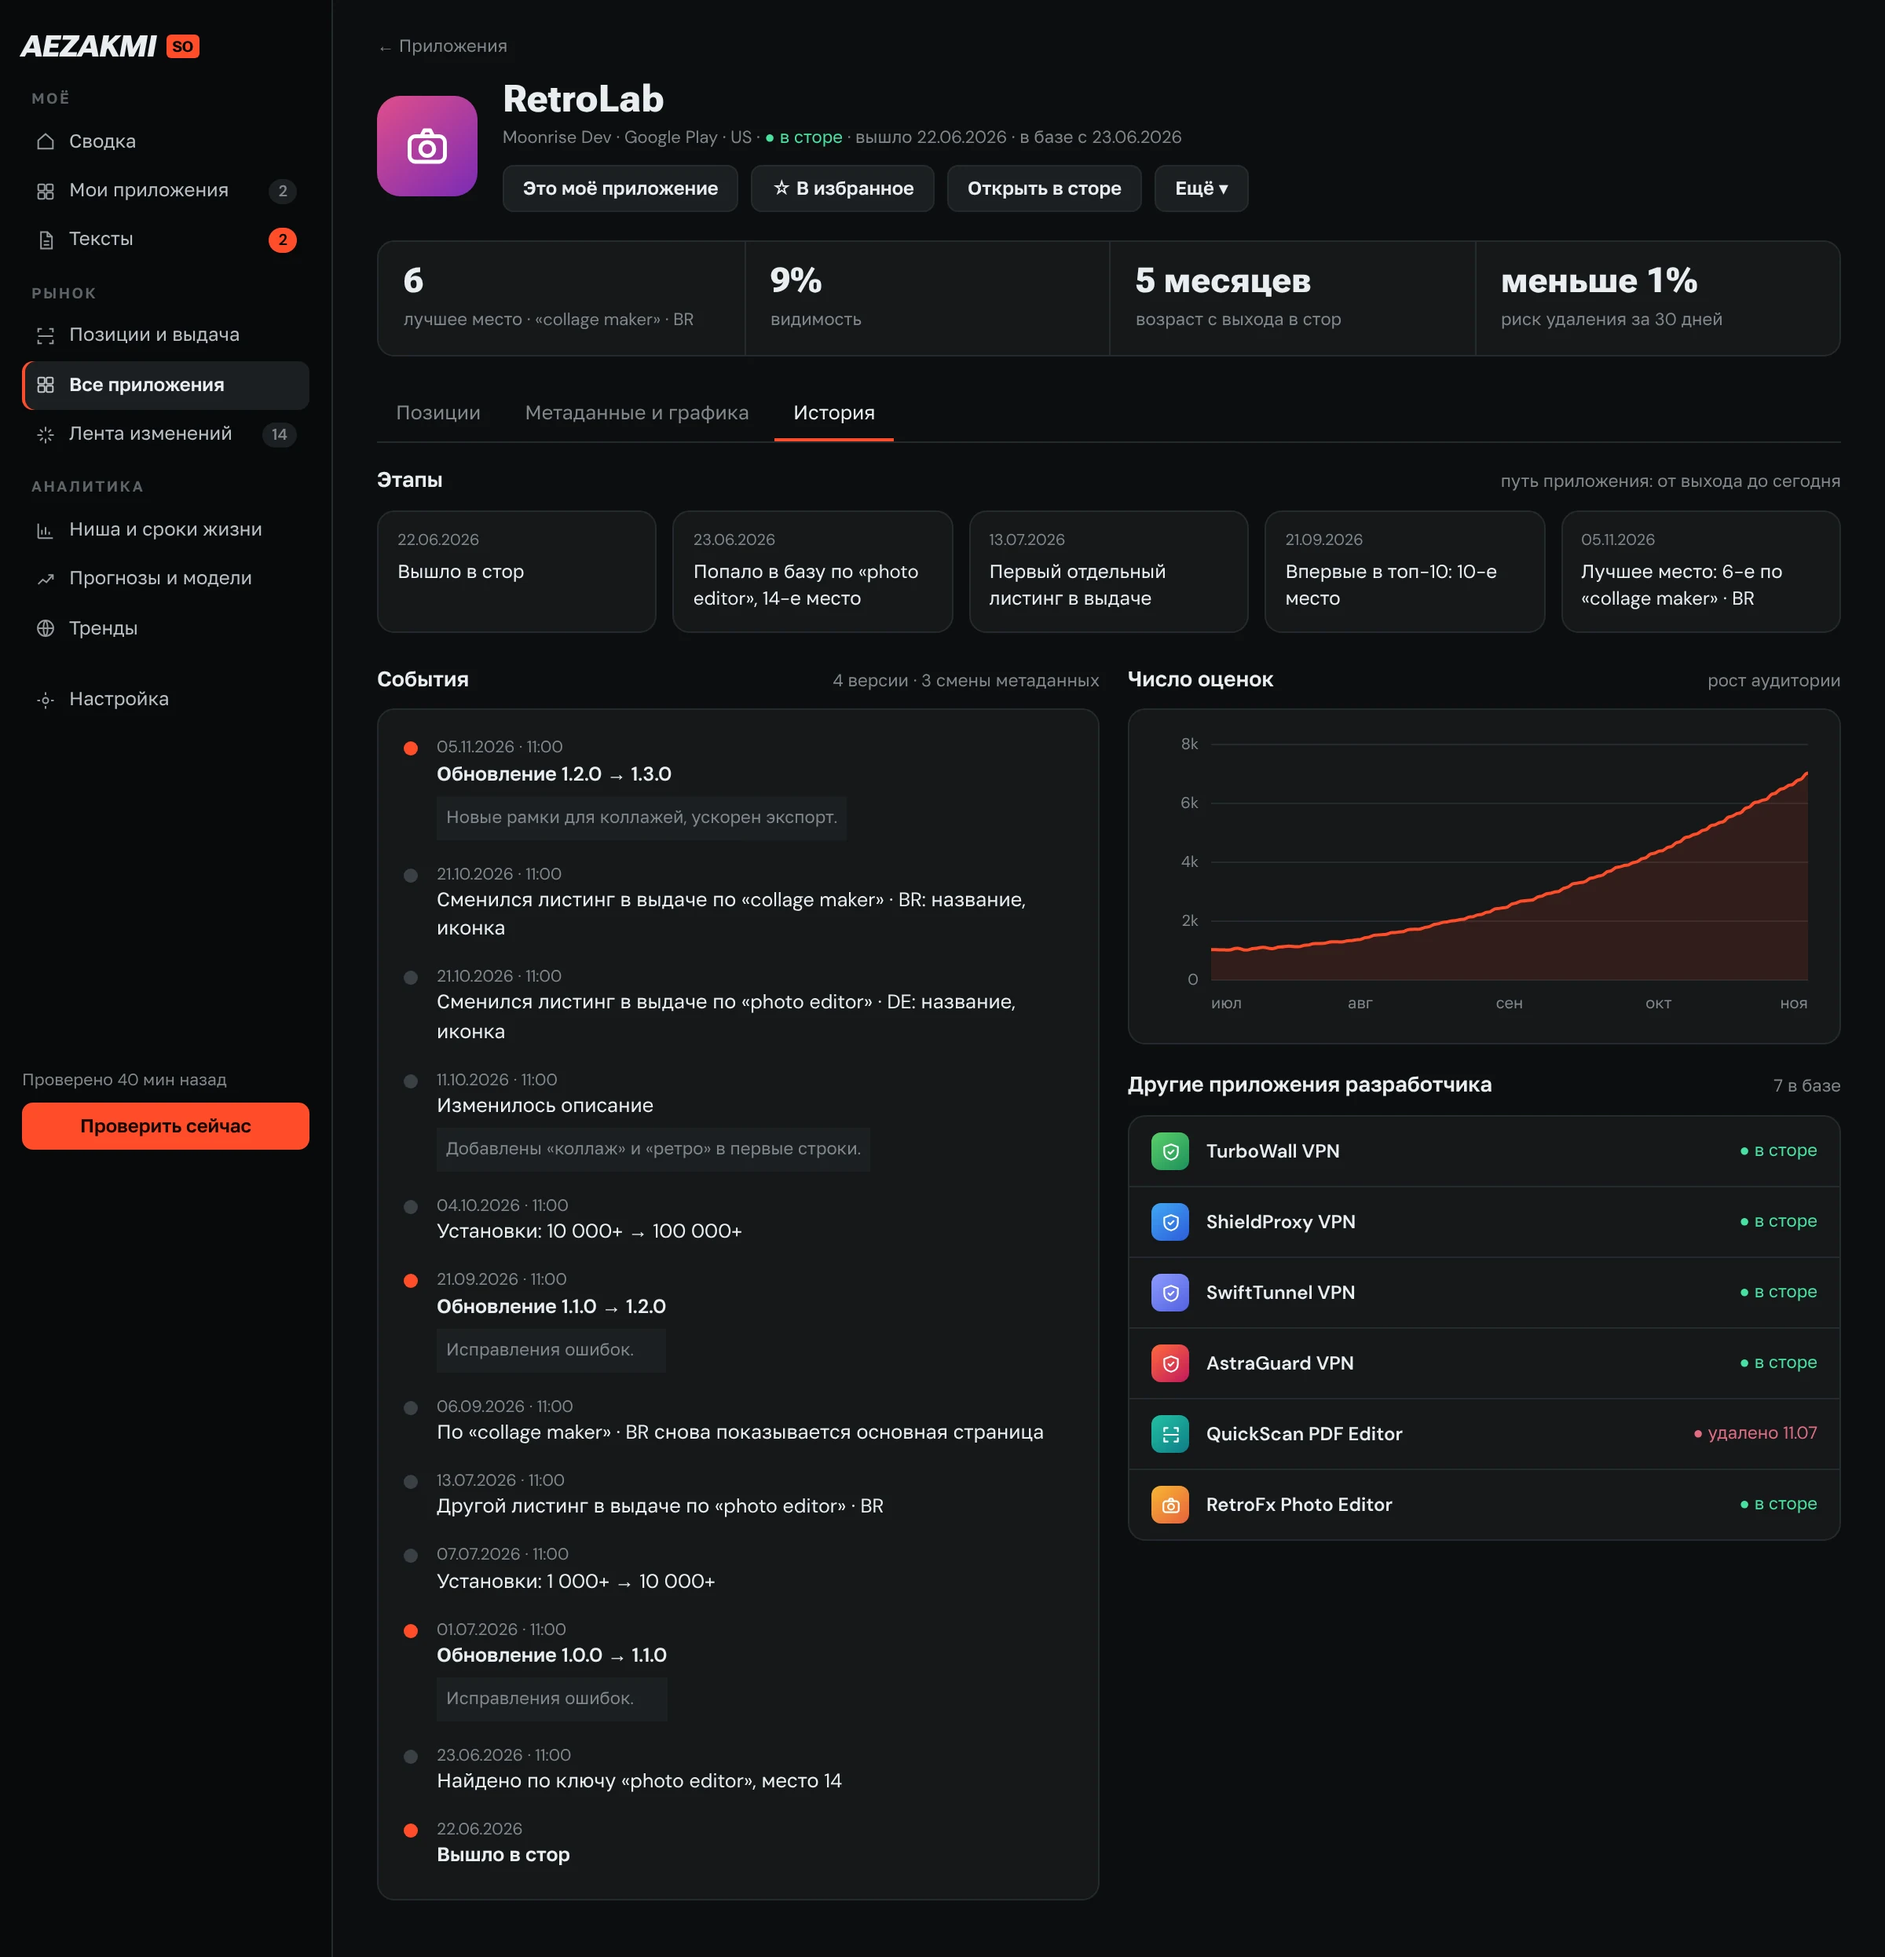
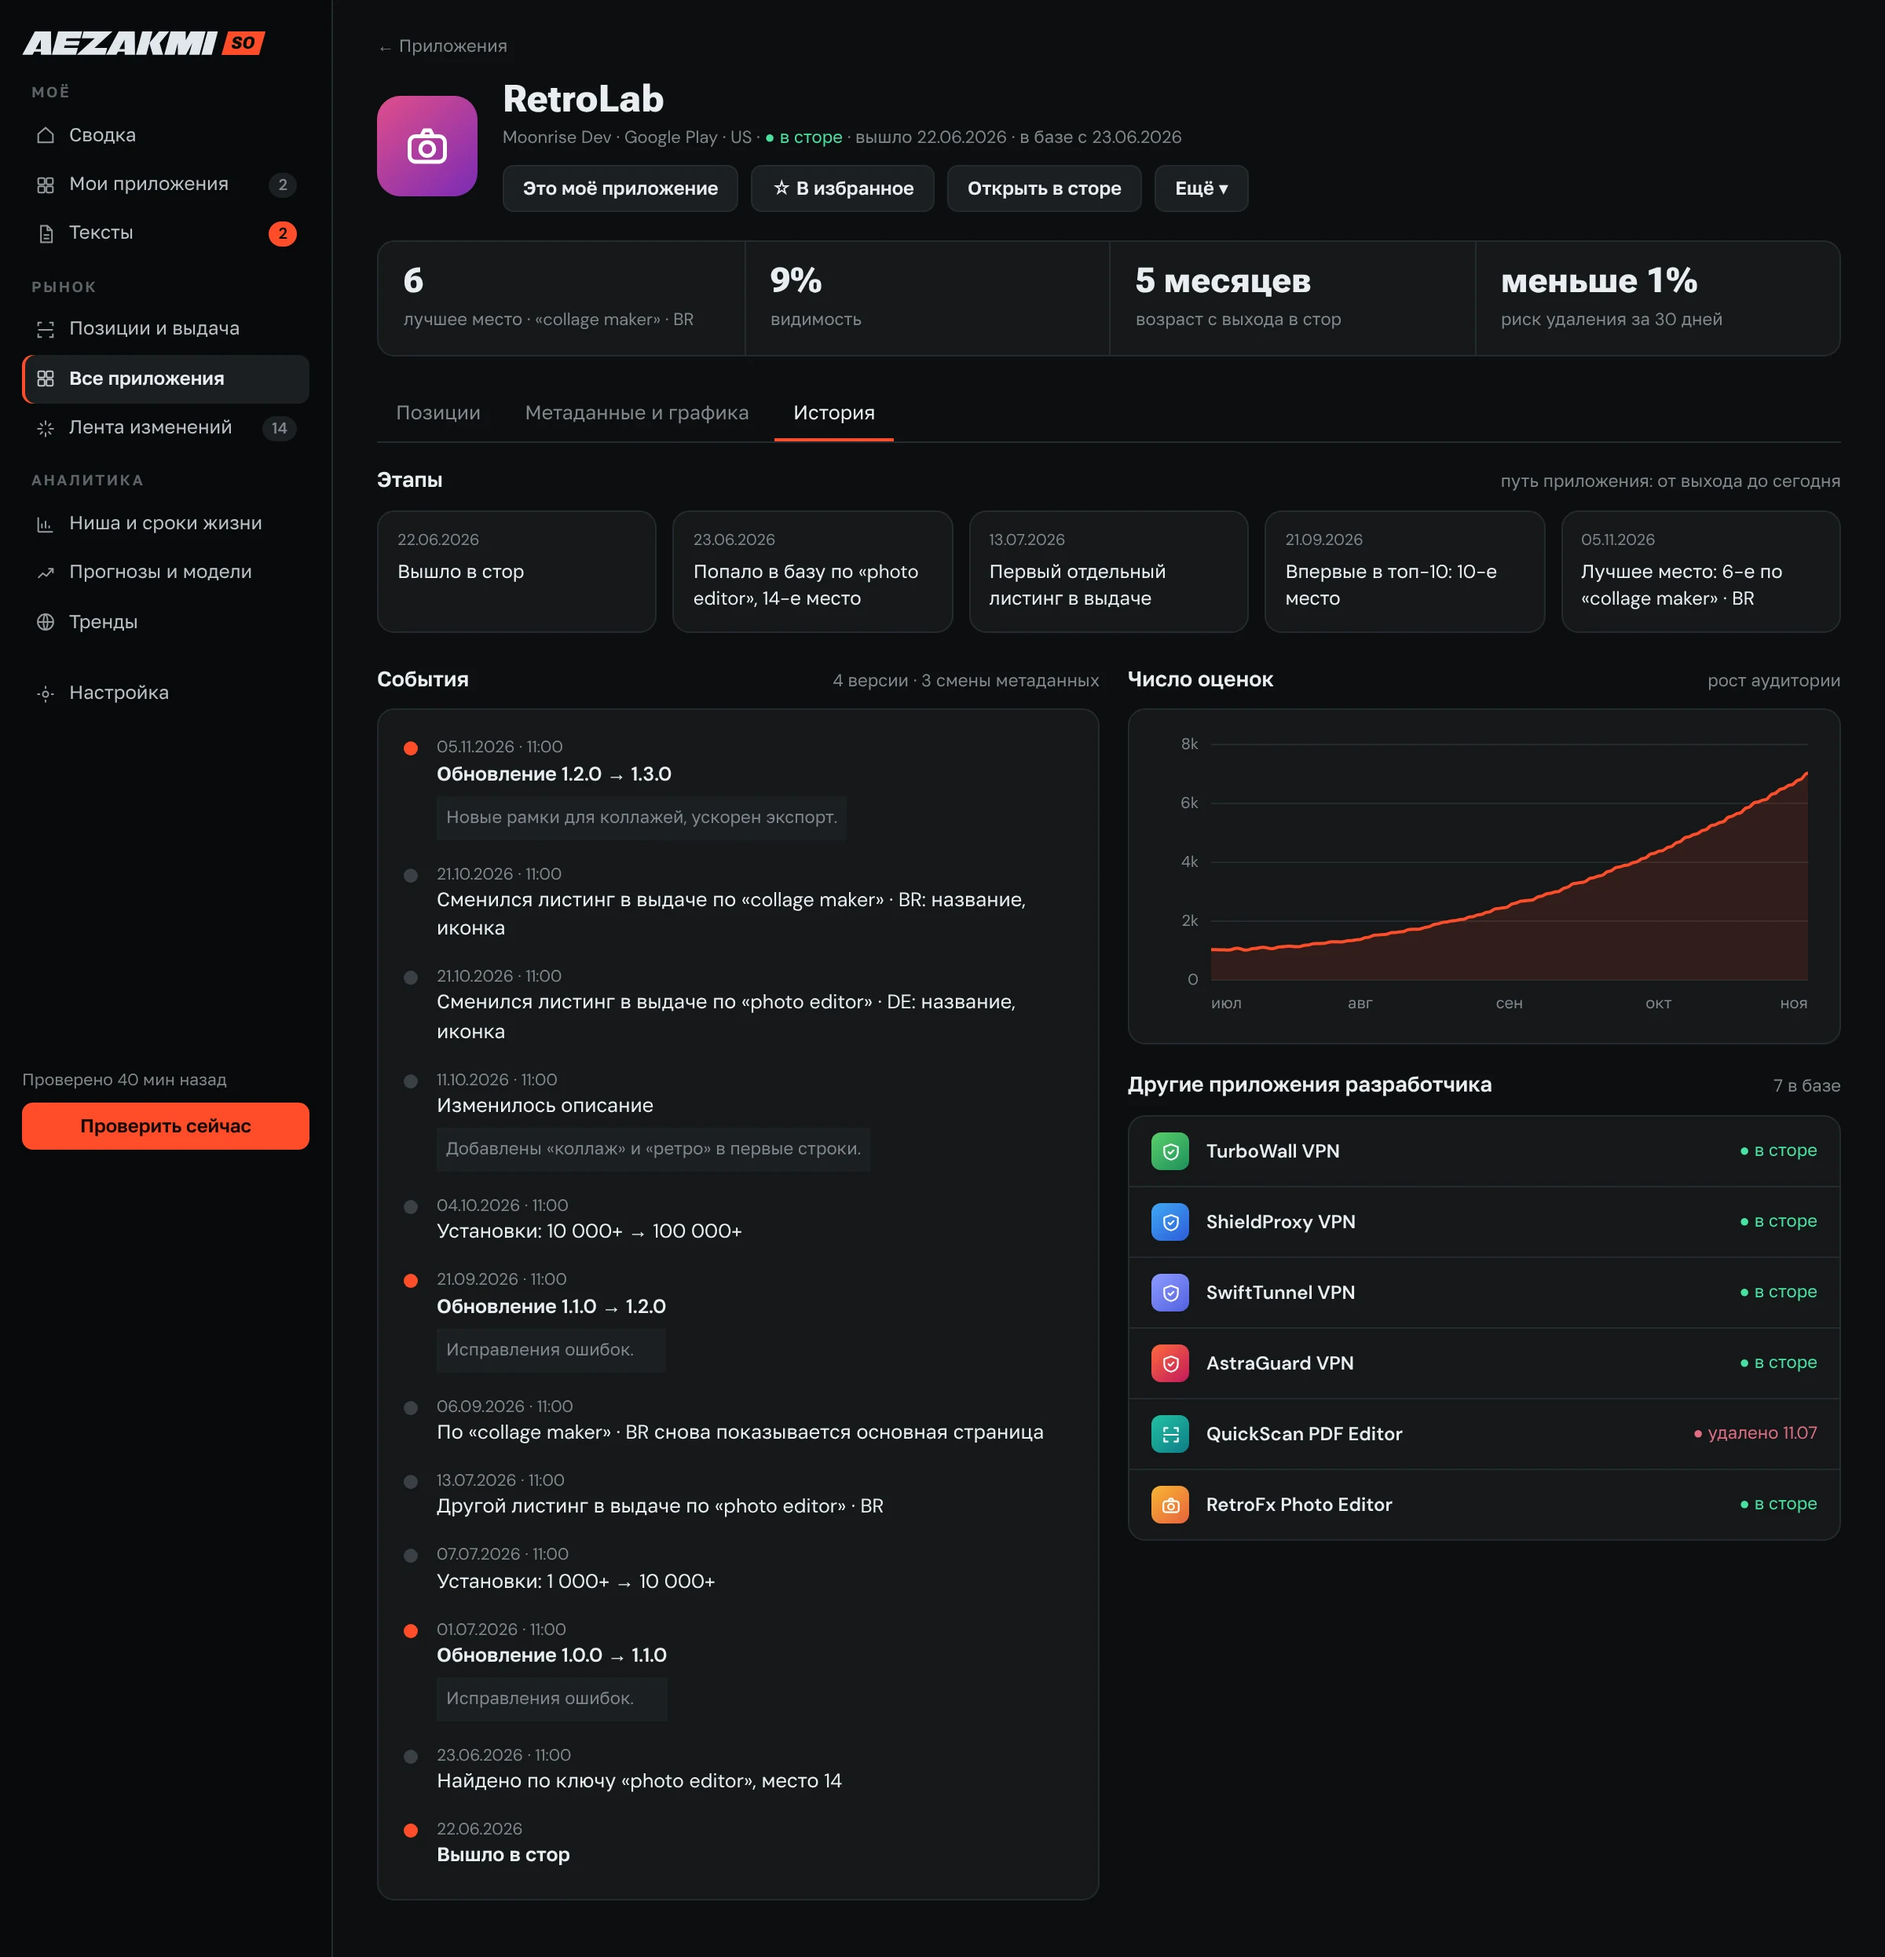
AezakmiSO kit: real wordmark, slanted SO tag and live lightning on sign-in
Claude-Session: https://claude.ai/code/session_01YCV7eEeQzQCarg7RfMB8Kx

Changed region(s): [[0.0, 0.1545, 0.125, 0.3708], [0.0312, 0.0618, 0.1562, 0.1236], [0.0, 0.0, 0.1562, 0.0309]]

diff --git a/_src/aso-kit/kit.py b/_src/aso-kit/kit.py
@@ -30,7 +30,6 @@ body{{width:1200px;background:var(--bg);color:var(--ink);font:13px/1.45 G,sans-s
 .nv.on{{background:var(--s2);color:var(--ink);box-shadow:inset 2px 0 0 var(--ac)}}
 .nv b{{margin-left:auto;font:600 10px/1 G;background:var(--s2);color:var(--mu);padding:3px 6px;border-radius:9px}}
 .nv b.r{{background:var(--ac);color:#000}}
-.bolt{{position:absolute;left:-30px;bottom:170px;width:250px;opacity:.09}}
 .chk{{position:absolute;left:14px;right:14px;bottom:18px}}
 .chk p{{font-size:10.5px;color:var(--mu);margin-bottom:7px}}
 .btn{{display:inline-flex;align-items:center;justify-content:center;gap:6px;height:30px;padding:0 12px;border-radius:7px;font:600 12px/1 G;background:var(--s2);border:1px solid var(--ln);color:var(--ink)}}
@@ -123,12 +122,21 @@ def shot(g, k=0):
     ang = 160 + k*25
     u = ['#FF4D29','#2D5BD9','#1C8F5A','#7A2BB5'][ (g+k) % 4]
     return f'<span class="shot" style="background:linear-gradient({ang}deg,{a},{b})"><b></b><b></b><s></s><u style="background:{u}"></u></span>'
+
+WORD_P='<path fill-rule="evenodd" d="M29.8094 23.7888H19.3086L19.2747 20.6169H12.4931L10.7767 23.7888H0.275864L13.1484 0H29.5559L29.8094 23.7888ZM13.866 18.0795H19.2478L19.1438 8.32607L13.866 18.0795Z"/><path d="M59.5357 6.97804H45.4254L44.6681 9.83269H58.7785L57.6008 14.2733H43.4905L42.8174 16.8107H56.9277L55.077 23.7888H30.4657L36.7752 0H61.3865L59.5357 6.97804Z"/><path d="M73.8601 16.8107H86.7895L84.9388 23.7888H55.7332L74.1057 6.97804H60.8483L62.699 0H92.2328L73.8601 16.8107Z"/><path fill-rule="evenodd" d="M115.129 23.7888H104.628L104.594 20.6169H97.8124L96.096 23.7888H85.595L98.4676 0H114.875L115.129 23.7888ZM99.1851 18.0795H104.567L104.463 8.32607L99.1851 18.0795Z"/><path d="M126.614 23.7888H116.113L122.423 0H132.923L126.614 23.7888Z"/><path d="M140.216 11.8944L143.678 23.7888H133.23L129.769 11.8944L139.54 0H149.987L140.216 11.8944Z"/><path d="M166.818 8.9208L171.645 0H187.068L180.759 23.7888H170.258L173.413 11.8944L166.977 23.7888H158.773L158.646 11.8944L155.491 23.7888H144.99L151.3 0H166.723L166.818 8.9208Z"/><path d="M193.228 23.7888H182.728L189.037 0H199.538L193.228 23.7888Z"/>'
+SO_T='M10.4092 14.0054L10.4673 13.6733H13.771L13.7212 13.9307C13.6326 14.4232 13.7184 14.7912 13.9785 15.0347C14.2386 15.2782 14.637 15.3999 15.1738 15.3999C15.7106 15.3999 16.1395 15.2975 16.4604 15.0928C16.7814 14.888 16.9723 14.6113 17.0332 14.2627C17.1107 13.8477 17.0304 13.5378 16.7925 13.333C16.5601 13.1283 15.9126 12.8931 14.8501 12.6274C13.6659 12.3286 12.7611 11.8804 12.1357 11.2827C11.5104 10.6795 11.2863 9.86605 11.4634 8.84229C11.6681 7.68571 12.2658 6.78646 13.2563 6.14453C14.2469 5.5026 15.4644 5.18164 16.9087 5.18164C18.342 5.18164 19.4404 5.50814 20.2041 6.16113C20.9733 6.81413 21.2555 7.71061 21.0508 8.85059L20.9927 9.14941H17.772L17.8135 8.92529C17.891 8.50472 17.819 8.16715 17.5977 7.9126C17.3818 7.65804 17.0194 7.53076 16.5103 7.53076C15.9956 7.53076 15.5999 7.62207 15.3232 7.80469C15.0521 7.9873 14.8916 8.23633 14.8418 8.55176C14.7809 8.88932 14.8722 9.13281 15.1157 9.28223C15.3647 9.43164 16.0122 9.64746 17.0581 9.92969C18.2147 10.2451 19.1112 10.7044 19.7476 11.3076C20.384 11.9053 20.6025 12.7824 20.4033 13.939C20.182 15.1896 19.5566 16.1359 18.5273 16.7778C17.5036 17.4198 16.2529 17.7407 14.7754 17.7407C13.32 17.7407 12.1717 17.4308 11.3306 16.811C10.495 16.1912 10.1878 15.256 10.4092 14.0054ZM22.2541 11.8306L22.3786 11.0835C22.7327 9.10791 23.5158 7.63037 24.7277 6.65088C25.9451 5.66585 27.3812 5.17334 29.0358 5.17334C30.6794 5.17334 31.9438 5.66585 32.8293 6.65088C33.7202 7.63037 33.9886 9.10791 33.6344 11.0835L33.5016 11.8306C33.1585 13.8062 32.3699 15.2865 31.1359 16.2715C29.9074 17.251 28.4686 17.7407 26.8195 17.7407C25.1704 17.7407 23.9087 17.251 23.0343 16.2715C22.1655 15.2865 21.9054 13.8062 22.2541 11.8306ZM25.5329 12.2871C25.3392 13.3939 25.4001 14.1825 25.7155 14.6528C26.0365 15.1232 26.5456 15.3584 27.2428 15.3584C27.9401 15.3584 28.5378 15.1232 29.0358 14.6528C29.5338 14.1825 29.8797 13.3939 30.0734 12.2871L30.3639 10.6353C30.5631 9.52295 30.4967 8.73438 30.1647 8.26953C29.8327 7.79915 29.3153 7.56396 28.6125 7.56396C27.9152 7.56396 27.3258 7.79915 26.8444 8.26953C26.3629 8.73438 26.0226 9.52295 25.8234 10.6353L25.5329 12.2871Z'
+def logo(h, ink, tag, tagink):
+    w=round(h*200/24,1); sw=round(h*45/24,1)
+    return (f'<span style="display:inline-flex;align-items:center;gap:{round(h*3/24,1)}px">'
+            f'<svg width="{w}" height="{h}" viewBox="0 0 200 24" fill="{ink}" style="display:block">{WORD_P}</svg>'
+            f'<svg width="{sw}" height="{h}" viewBox="0 0 45 24" style="display:block"><path d="M6.75 0H45L38.25 24H0L6.75 0Z" fill="{tag}"/><path d="{SO_T}" fill="{tagink}"/></svg></span>')
+BOLT_LIVE='<path d="M153.594 762L500.87 50L429.013 337.83L632.594 140.894L321.241 762L393.089 443.872L153.594 762Z"/>'
 NAV = [('МОЁ',[('Сводка','home',''),('Мои приложения','grid','2'),('Тексты','doc','r2')]),
        ('РЫНОК',[('Позиции и выдача','scan',''),('Все приложения','grid',''),('Лента изменений','spark','14')]),
        ('АНАЛИТИКА',[('Ниша и сроки жизни','chart',''),('Прогнозы и модели','trend',''),('Тренды','globe','')])]
 NI = {'home':'<path d="M4 11l8-7 8 7v9H4z"/>','chart':'<path d="M4 20V4M4 20h16M8 16v-5M12 16V8M16 16v-3"/>','trend':'<path d="M4 17l5-5 4 3 7-8"/><path d="M15 7h5v5"/>'}
 def side(active):
-    h = f'<aside class="side" id="nav"><div class="logo">AEZAKMI <i>SO</i></div>'
+    h = f'<aside class="side" id="nav"><div class="logo">'+logo(15,'#E0E6EC','#FF4D29','#020E04')+'</div>'
     for g,items in NAV:
         h += f'<div class="grp">{g}</div>'
         for n,ic,c in items:

diff --git a/_src/aso-kit/screens2.py b/_src/aso-kit/screens2.py
@@ -84,12 +84,16 @@ def myapps():
     return page('Мои приложения', b)
 
 def login():
+    # geometry from the live sign-in frame (1440 wide), scaled to 1200
     return f'''<!doctype html><html><head><meta charset="utf-8"><style>{CSS}
-.lg{{display:grid;grid-template-columns:1.6fr 1fr;height:750px}}.l{{background:var(--ac);position:relative;overflow:hidden;padding:48px 40px;color:#140603}}
-.l h2{{font:800 75px/1.02 H;text-transform:uppercase;margin-top:150px;position:relative;z-index:1}}.l svg{{position:absolute;right:-120px;top:-20px;height:800px;opacity:.95;fill:#140603}}
-.f{{padding:0 70px;display:flex;flex-direction:column;justify-content:center}}.in{{height:38px;border:1px solid var(--ln);border-radius:8px;background:var(--s);margin:6px 0 16px}}</style></head><body><div class="lg"><div class="l">
-<div style="font:900 26px/1 H;font-style:oblique 10deg">AEZAKMI <span style="background:#140603;color:var(--ac);font:900 12px/1 H;font-style:oblique 10deg;padding:3px 5px;border-radius:3px;vertical-align:4px">SO</span></div><svg viewBox="0 0 100 160"><path d="M62 0 L8 92 H44 L30 160 L92 58 H56 Z"/></svg><h2>Видеть<br>стор<br>раньше</h2><div style="position:absolute;bottom:34px;left:40px;font:600 12px/1 G;display:flex;gap:34px"><span>AEZAKMI.GROUP</span><span>ASO · позиции · удаления · тренды</span></div></div>
-<div class="f"><div style="font:800 30px/1 H;text-transform:uppercase">Вход</div><div class="sb" style="margin:8px 0 22px">Доступ выдаёт администратор команды</div><div class="sb">Логин</div><div class="in"></div><div class="sb">Пароль</div><div class="in"></div><div class="btn p" style="height:40px">Войти</div></div></div></body></html>'''
+.lg{{display:grid;grid-template-columns:700px 1fr;height:750px}}.l{{background:var(--ac);position:relative;overflow:hidden;color:#020E04}}
+.l .lbolt{{position:absolute;left:252px;top:45px;width:448px;height:690px;fill:#020E04}}
+.l h2{{position:absolute;left:47px;top:252px;font:800 75px/1.1 H;text-transform:uppercase;z-index:1}}
+.f{{display:flex;flex-direction:column;justify-content:center;padding:0 100px}}.in{{height:37px;border:1px solid var(--ln);border-radius:8px;background:var(--s);margin:6px 0 12px}}</style></head><body><div class="lg"><div class="l">
+<div style="position:absolute;left:47px;top:40px">{logo(20,'#020E04','#020E04','#FF4D29')}</div>
+<svg class="lbolt" viewBox="0 0 538 828">{BOLT_LIVE}</svg><h2>Видеть<br>стор<br>раньше</h2>
+<div style="position:absolute;top:692px;left:47px;font:600 11.5px/1 G;display:flex;gap:34px"><span>AEZAKMI.GROUP</span><span>ASO · позиции · удаления · тренды</span></div></div>
+<div class="f"><div style="font:800 30px/1 H;text-transform:uppercase">Вход</div><div class="sb" style="margin:10px 0 14px;font-size:10.5px">Доступ выдаёт администратор команды</div><div class="sb" style="font:500 10.5px G;color:var(--ink)">Логин</div><div class="in"></div><div class="sb" style="font:500 10.5px G;color:var(--ink)">Пароль</div><div class="in"></div><div class="btn p" style="height:37px;margin-top:4px;font-size:12.5px">Войти</div></div></div></body></html>'''
 
 SCREENS = dict(overview=overview, positions=positions, card=card, meta=meta, history=history, niche=niche, models=models, texts=texts, myapps=myapps, login=login)
 if __name__=='__main__':
